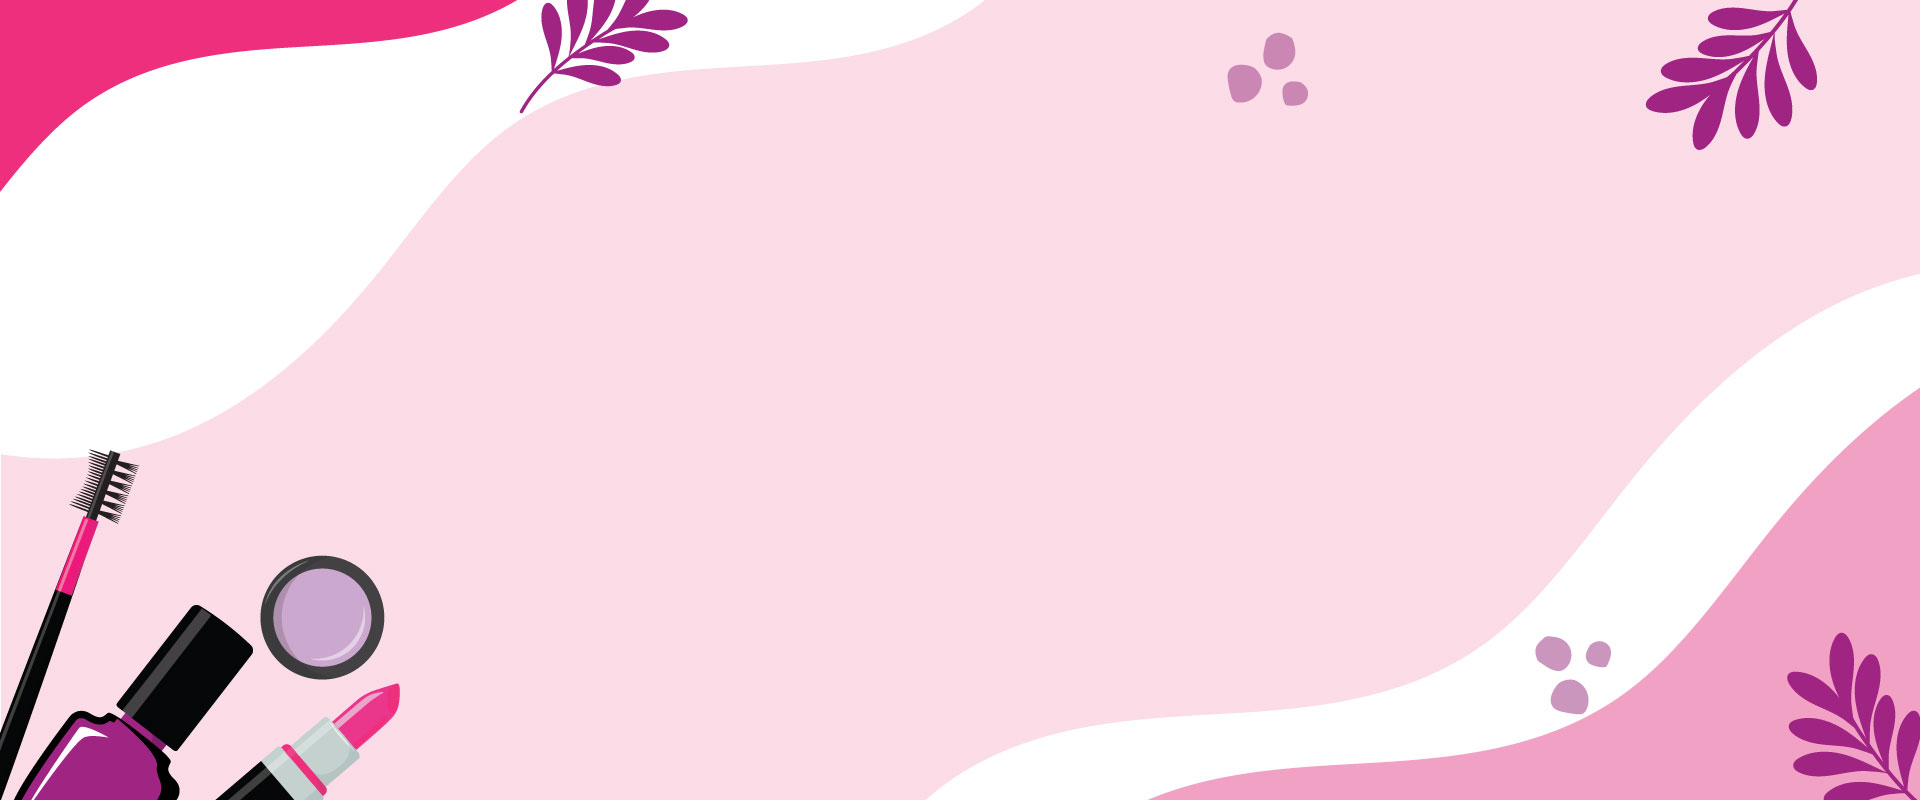
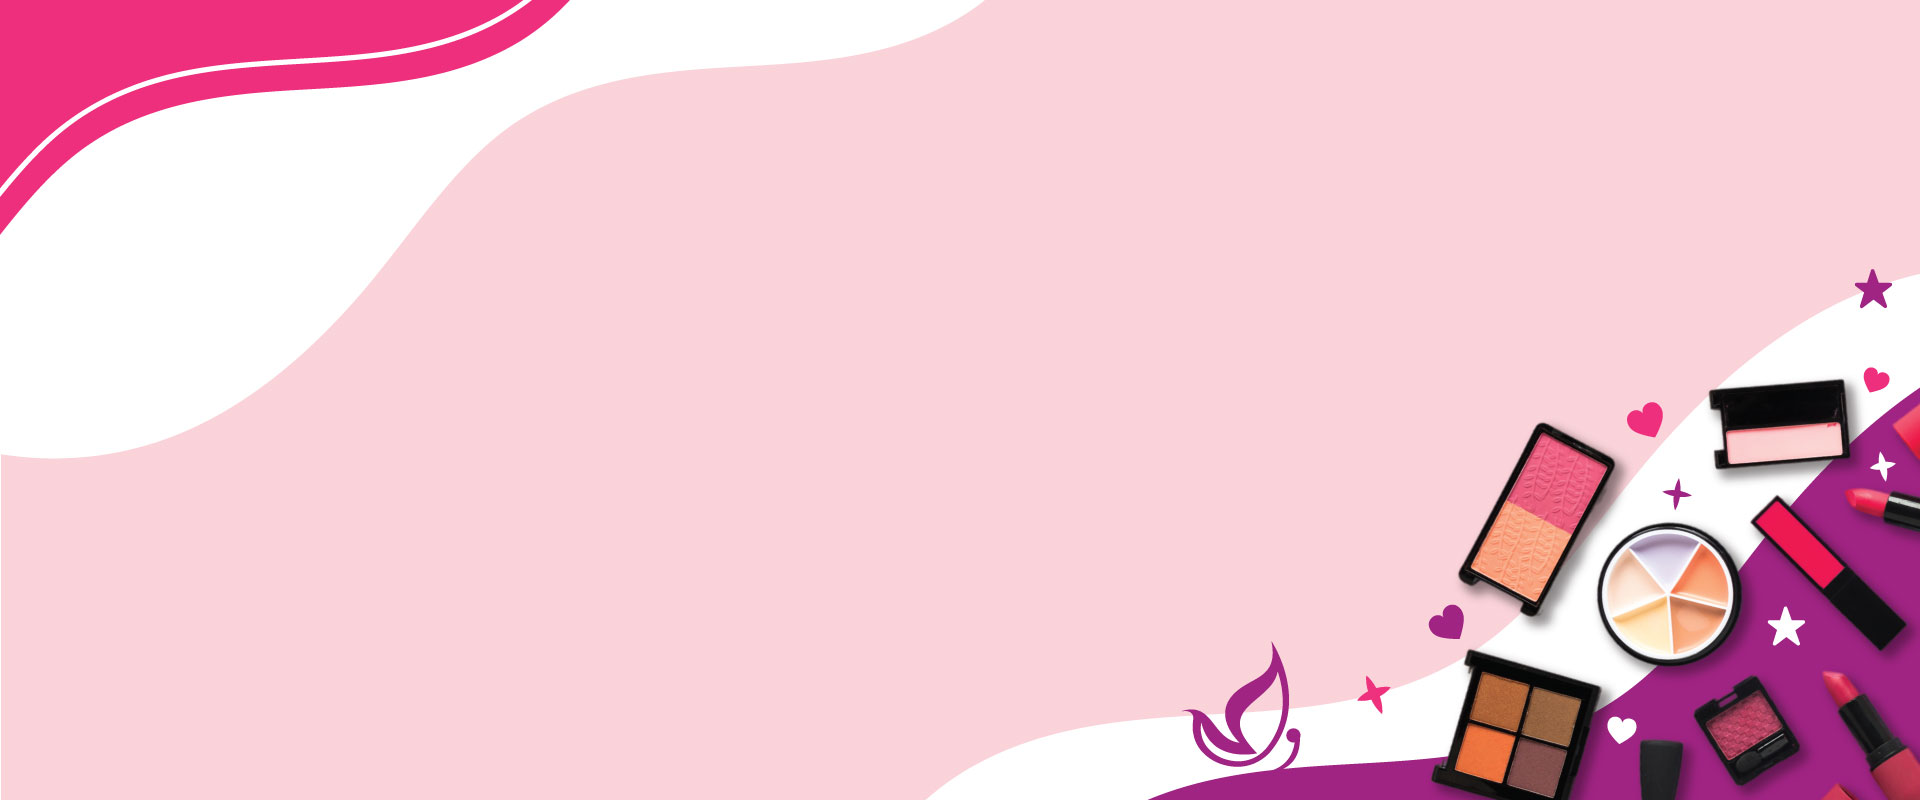
shop updated

diff --git a/src/Pages/Shop/Shop.jsx b/src/Pages/Shop/Shop.jsx
@@ -8,23 +8,58 @@ import { Context } from "../../Providers/PamperContext";
 import Product from "../../Components/Product/Product";
 import { Outlet, useLocation, useNavigate, useParams } from "react-router-dom";
 const Shop = () => {
+  const { products, services } = useContext(Context);
+
   const [selectedTab, setSelectedTab] = useState(null);
   const [loading, setLoading] = useState(false);
-  const { products, services } = useContext(Context);
-  const [active, setActive] = useState(false);
+  const [active, setActive] = useState({
+    category: false,
+    brand: false,
+  });
+  const [filteredProducts, setFilterProducts] = useState([]);
+  const [subProducts, setSubProducts] = useState([]);
+  const [brandProducts, setBrandProducts] = useState([]);
+
+  const { category, subcategory, brand } = useParams();
   const location = useLocation();
   const navigate = useNavigate();
 
-  const {subcategory} = useParams();
+  useEffect(() => {
+    // `http://localhost:5000/getProductsByCategory?${category && `category=${category}`}&${subcategory && `subcategory=${subcategory}`}`
+ 
+      fetch(
+        `http://localhost:5000/getProductsByCategory?category=${category}&subcategory=${subcategory}&Brand=${brand}`
+      )
+        .then((res) => res.json())
+        .then((data) => setFilterProducts(data));
+  }, [category, subcategory, brand]);
 
-  let filteredProducts = products?.filter(
-    (product) => product?.category == selectedTab
-  );
+  console.log(filteredProducts);
 
   const uniqueSubCategories = [
     ...new Set(
       (filteredProducts.length > 0 ? filteredProducts : products)?.map(
         (product) => product.subcategory
+      )
+    ),
+  ];
+
+  // useEffect(() => {
+  //   if (subcategory) {
+  //     setSubProducts(
+  //       filteredProducts?.filter(
+  //         (product) => product.subcategory === subcategory
+  //       )
+  //     );
+  //   } else {
+  //     setSubProducts([]);
+  //   }
+  // }, [subcategory, filteredProducts]);
+
+  const uniqueBrands = [
+    ...new Set(
+      (filteredProducts.length > 0 ? filteredProducts : products)?.map(
+        (product) => product.Brand
       )
     ),
   ];
@@ -42,33 +77,85 @@ const Shop = () => {
 
   useEffect(() => {
     if (location.pathname == "/shop") {
-      filteredProducts = [];
+      setFilterProducts([]);
       setSelectedTab([]);
     }
   }, [location.pathname]);
+
+  console.log(products.category)
 
   return (
     <div className="shopProducts">
       <p className="shopProductBanner"></p>
       <ServicesTab
-        services={products}
+        services={products.category}
         selectedTab={selectedTab}
         setSelectedTab={setSelectedTab}
       ></ServicesTab>
       <div className="shopProduct-grid">
         <div className="filter-container">
           <div className={`filterCategory `}>
-            <p onClick ={()=> setActive(!active)}>Filter by category {active ? <i class="fa-solid fa-minus"></i> : <i class="fa-solid fa-plus"></i>}</p>
-            <div className={`sub-category ${active ? "show":""}`}>
-            {uniqueSubCategories?.map((uniqueSubCategory, i) => (
-              <div key={i}>
-                <button className={`${subcategory ==uniqueSubCategory ?  "isActive" :""}`} onClick={() => handleNavigate(uniqueSubCategory)}>
-                  {uniqueSubCategory}
-                </button>
-              </div>
-            ))}
+            <p
+              onClick={() =>
+                setActive({
+                  category: !active.category,
+                  brand: active.brand,
+                })
+              }
+            >
+              Filter by category{" "}
+              {active.category ? (
+                <i class="fa-solid fa-minus"></i>
+              ) : (
+                <i class="fa-solid fa-plus"></i>
+              )}
+            </p>
+            <div className={`sub-category ${active.category ? "show" : ""}`}>
+              {uniqueSubCategories?.map((uniqueSubCategory, i) => (
+                <div key={i}>
+                  <button
+                    className={`${
+                      subcategory == uniqueSubCategory ? "isActive" : ""
+                    }`}
+                    onClick={() => handleNavigate(uniqueSubCategory)}
+                  >
+                    {uniqueSubCategory}
+                  </button>
+                </div>
+              ))}
             </div>
           </div>
+
+          <div className={`filterCategory `} style={{ marginTop: 20 }}>
+            <p
+              onClick={() =>
+                setActive({
+                  category: active.category,
+                  brand: !active.brand,
+                })
+              }
+            >
+              Filter by Brands{" "}
+              {active.brand ? (
+                <i class="fa-solid fa-minus"></i>
+              ) : (
+                <i class="fa-solid fa-plus"></i>
+              )}
+            </p>
+            <div className={`sub-category ${active.brand ? "show" : ""}`}>
+              {uniqueBrands?.map((uniqueBrand, i) => (
+                <div key={i}>
+                  <button
+                    className={`${brand == uniqueBrand ? "isActive" : ""}`}
+                    onClick={() => handleNavigate(uniqueBrand)}
+                  >
+                    {uniqueBrand}
+                  </button>
+                </div>
+              ))}
+            </div>
+          </div>
+
           <div className="filterPrice">
             <p>Filter by price</p>
             <input type="number" placeholder="From" />
@@ -77,13 +164,15 @@ const Shop = () => {
           <button className="filterBtn">Filter</button>
         </div>
         <div className="shopProduct-container">
-          {filteredProducts.length > 0 ? (
-            <Outlet />
-          ) : (
-            products.map((product) => (
-              <Product key={product._id} product={product}></Product>
-            ))
-          )}
+          {
+            // filteredProducts.length > 0 ? (
+            <Outlet context={{ subProducts, filteredProducts }} />
+            // ) : (
+            //   products.map((product) => (
+            //     <Product key={product._id} product={product}></Product>
+            //   ))
+            // )
+          }
         </div>
       </div>
     </div>

diff --git a/src/Components/ServicesTab/ServicesTab.css b/src/Components/ServicesTab/ServicesTab.css
@@ -1,34 +1,55 @@
-.servicesTab{
-    display: flex;
-    justify-content: center;
-    align-items: center;
-    background-color: #f1a1c4;
-    border-radius: 0 0 20px 20px;
-    overflow: hidden;
+.tab-container {
+  background-color: #f1a1c4;
+  border-radius: 0 0 20px 20px;
+  overflow: hidden;
+}
+
+.servicesTab {
+  display: flex;
+  justify-content: center;
+  align-items: center;
+}
+
+.scroll-service {
+  display: grid;
+  grid-auto-flow: column;
+  grid-auto-columns: 20%;
+  overflow-x: auto;
+  scroll-snap-type: x mandatory;
+  scroll-padding: 1rem;
+}
+
+.scroll-service > * {
+  scroll-snap-align: start;
+}
+
+.tab-container button {
+  width: auto;
+  height: min(60px, 9vh);
+  padding: 0 20px;
+  color: #ffffff;
+  text-shadow: 0px 0px 4px rgba(192, 34, 166, 0.82);
+  font-weight: bold;
+  background-color: transparent;
+  transition: all ease-in-out 200ms;
+  cursor: pointer;
+  font-size: 14px;
 }
 
 .servicesTab button{
     width: 200px;
-    height: min(60px,9vh);
-    padding: 0 20px;
-    color: #ffffff;
-    text-shadow: 0px 0px 4px rgba(192,34,166,0.82);
-    font-weight: bold;
-    background-color: transparent;
-    transition: all ease-in-out 200ms;
-    cursor: pointer;
-    font-size: 14px;
 }
 
-.servicesTab button:hover{
-    background-color: rgba(255, 3, 133, 0.452) ;
-    color: white;
-    scale: 105%;
+
+.tab-container button:hover {
+  background-color: rgba(255, 3, 133, 0.452);
+  color: white;
+  scale: 105%;
 }
 
-button.selected{
-    background-color: var(--pink) ;
-    color: white;
-    pointer-events: none;
-    text-shadow: none;
+.tab-container button.selected {
+  background-color: var(--pink);
+  color: white;
+  pointer-events: none;
+  text-shadow: none;
 }

diff --git a/src/Providers/PamperContext.jsx b/src/Providers/PamperContext.jsx
@@ -1,11 +1,13 @@
 import { createContext, useEffect, useState } from "react";
 import useCart from "../Hooks/UseCart";
+import { useParams } from "react-router-dom";
 
 export const Context = createContext();
 const PamperContext = ({children}) => {
   const [services, setServices] = useState([]);
-  const [products, setProducts] = useState([]);
+  const [products, setProducts] = useState({});
   const [cart, setCart] = useCart(products);
+  const { category, subcategory, brand } = useParams();
 
     useEffect(() => {
         fetch("https://pamper-me-backend.vercel.app/services")
@@ -13,12 +15,13 @@ const PamperContext = ({children}) => {
           .then((data) => {
             setServices(data);
           })
-        fetch("https://pamper-me-backend.vercel.app/products")
+        fetch("http://localhost:5000/products")
           .then((res) => res.json())
           .then((data) => {
             setProducts(data);
           })
       }, []);
+
       const info = {
         services,setServices,products,cart,setCart
       }

diff --git a/src/Components/ServicesTab/ServicesTab.jsx b/src/Components/ServicesTab/ServicesTab.jsx
@@ -5,20 +5,20 @@ import { useEffect } from "react";
 const ServicesTab = ({services,selectedTab,setSelectedTab,name}) => {
     const uniqueCategories = [...new Set(services?.map(service => service.category))];
     const navigate = useNavigate();
-    const location =useLocation();
     const {category}= useParams();
 
     useEffect(()=>{
         setSelectedTab(category)
     },[category])
+    console.log(uniqueCategories)
     return (
-        <div className="servicesTab">
+        <div className={`tab-container ${name ? "scroll-service":"servicesTab"}`}>
             {uniqueCategories.map(uniqueTab => <button key={uniqueTab} 
             onClick={()=>{
                 setSelectedTab(uniqueTab)
                 name!='services' && navigate(`/shop/${uniqueTab}`)
         }} 
-            className={`${selectedTab==uniqueTab?"selected":""}`}>{uniqueTab.toUpperCase()}</button>)}
+            className={`${selectedTab==uniqueTab?"selected":""}`}>{uniqueTab?.toUpperCase()}</button>)}
         </div>
     );
 };

diff --git a/src/Components/Category/Category.jsx b/src/Components/Category/Category.jsx
@@ -4,24 +4,12 @@ import Product from "../Product/Product";
 import { useState } from "react";
 
 const Category = () => {
-  const [filteredProducts, setFilterProducts] = useState([]);
-   const [subProducts, setSubProducts] = useState([]);
-  const {category, subcategory} = useParams()
+ const {subProducts, filteredProducts} = useOutletContext()
 
-  useEffect(() =>{
-      fetch(`https://pamper-me-backend.vercel.app/getProductsByCategory?category=${category}`)
-    .then(res => res.json())
-    .then(data => setFilterProducts(data));
-  },[category]);
-
-  useEffect(() =>{
-    if(subcategory){
-      setSubProducts(filteredProducts?.filter(product => product.subcategory === subcategory))
-    }
-  },[subcategory,filteredProducts]);
+ console.log(filteredProducts)
 
   return <>
-    {(subProducts.length > 0 ? subProducts:filteredProducts)?.map(
+    {filteredProducts?.map(
             (product) => (
               <Product key={product._id} product={product}></Product>
             )

diff --git a/src/Components/Product/Product.jsx b/src/Components/Product/Product.jsx
@@ -29,11 +29,11 @@ const handleAddToCart = (item) => {
     <div className={`productCard ${location.pathname ==="/"?"width-350":"product-border"}`}>
       <p className="product-title">{product?.name}</p>
       <img
-        src={product?.images[0]?.src}
+        // src={product?.images[0]?.src}
         alt=""
         onClick={()=>navigate(`/product/${product?.name}`)}
       />
-      <p className="product-category">{product?.category.toUpperCase()}</p>
+      {/* <p className="product-category">{product?.category?.toUpperCase()}</p> */}
       <p className="product-desc">{product?.shortDescription}</p>
       <p className='price-button'>
         <p className="product-price">TK. {product?.price}</p>

diff --git a/src/Routes/Routes.jsx b/src/Routes/Routes.jsx
@@ -49,7 +49,13 @@ const router = createBrowserRouter([
                         children:[
                             {
                                 path:":subcategory",
-                                element:<Category/>
+                                element:<Category/>,
+                                children:[
+                                    {
+                                        path:":brand",
+                                        element:<Category/>
+                                    }
+                                ]
                             }
                         ]
                     }

diff --git a/src/Components/Footer/Footer.css b/src/Components/Footer/Footer.css
@@ -1,7 +1,7 @@
 .footer {
     letter-spacing: 0.5px;
     line-height: 21px;
-    background: url("../../assets/Images/Footer Banner/footer.jpg");
+    background: url("../../assets/Images/Footer Banner/footer2.jpg");
     background-size: cover;
     background-repeat: no-repeat;
     height: 83vh;
